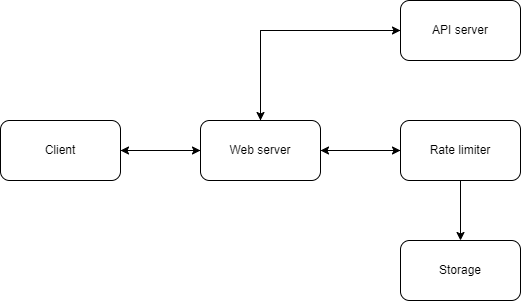
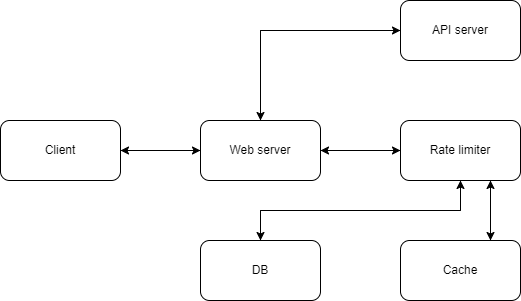
Update Rate limiter notes

diff --git a/sofrware-engineering/3-rate-limiter.html b/sofrware-engineering/3-rate-limiter.html
@@ -53,7 +53,23 @@
   <div class="card-body">
     <h2 class="card-title">Rate limiter</h2>
     <ul>
-      <li>Prevents DDOS attack.</li>
+      <li>Prevent resource starvation. (DDOS attack)</li>
+      <li>Manage policies and quotas.</li>
+      <li>Avoid excess costs.</li>
+    </ul>
+
+    <h3 class="card-title">Throttling</h3>
+    <ul>
+      <li>Hard: for example, when exceed 500, the request is discarded.</li>
+      <li>Soft: for example, allow 5% beyong the limit, such as 525.</li>
+      <li>Dynamic: for example, allow additional requests as long as there is free resource.</li>
+    </ul>
+
+    <h3 class="card-title">Where to place rate limiter</h3>
+    <ul>
+      <li>Client: not safe and configuration can be difficult.</li>
+      <li>Server: a viable option.</li>
+      <li>Middleware: between client and server.</li>
     </ul>
 
     <h3 class="card-title">Requirement</h3>
@@ -62,18 +78,20 @@
     <ul>
       <li>Limit number of requests a client can send within time window.</li>
       <li>Make the number of requests within time window configurable.</li>
+      <li>Clients should get error message when threshold is reached.</li>
     </ul>
 
     <h4 class="card-title">Non-functional</h4>
     <ul>
       <li>Availability</li>
-      <li>Reliability</li>
+      <li>Low latency</li>
       <li>Scalability</li>
-      <li>Performance</li>
     </ul>
 
     <h3 class="card-title">High level design</h3>
     <img class="img-fluid" class="card-img-top" src="/img/system-design/rate-limiter1.png" alt="Card image cap">
+
+    <h3 class="card-title">Component design</h3>
   </div>
   <div class="card-footer text-muted">
     <a href="https://www.educative.io/path/deep-dive-into-system-design-interview">Deep Dive into System Design Interview</a>
